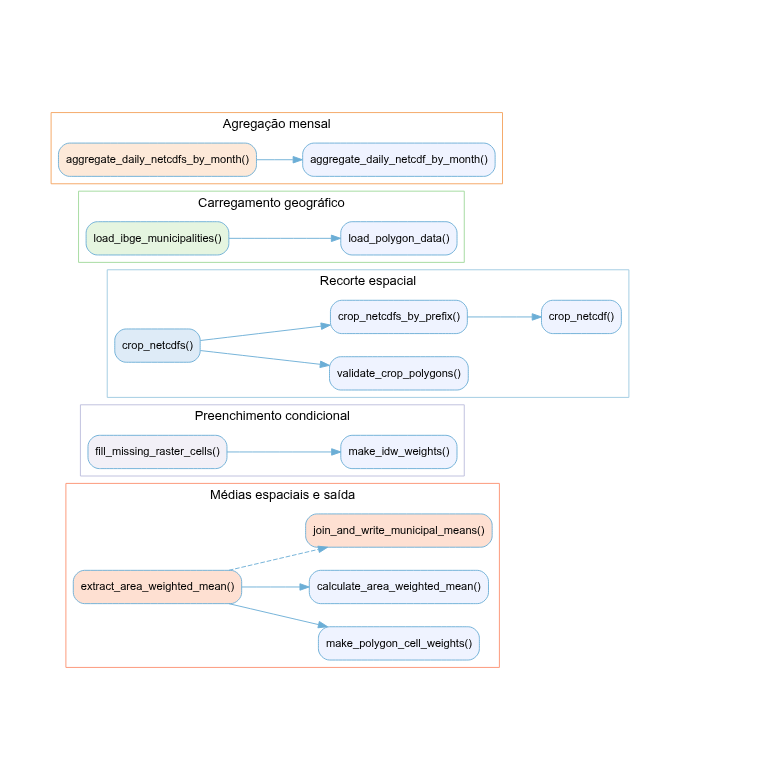
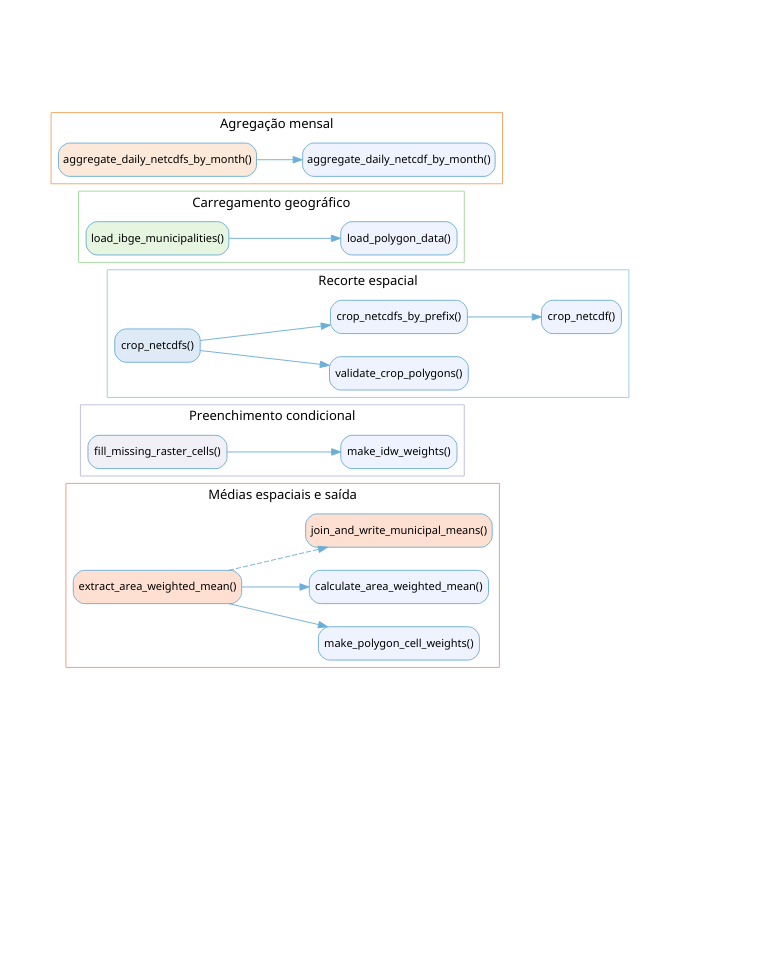
Organize scientific references and render README

diff --git a/README.md b/README.md
@@ -4,7 +4,6 @@
 # extractmeteobr
 
 <!-- badges: start -->
-
 <!-- badges: end -->
 
 O **extractmeteobr** transforma dados meteorológicos gradeados do Brasil
@@ -18,8 +17,7 @@ hidrográficas e glebas.
 
 ## Instalação
 
-O pacote ainda não está no CRAN. Instale a versão **0.1.0**
-com:
+O pacote ainda não está no CRAN. Instale a versão **0.1.0** com:
 
 ``` r
 pak::pak("lhmet/extractmeteobr@v0.1.0")
@@ -35,18 +33,20 @@ os dados usados em desenvolvimento e validação ficam em `inst/ext/`.
 ### Dados geográficos
 
 Os arquivos `BR_Municipios_2022` e `BR_UF_2022` correspondem à edição
-**2022 da Malha Municipal Digital**, produzida pelo Instituto Brasileiro de
-Geografia e Estatística (**IBGE**). A [página oficial dessa edição](https://www.ibge.gov.br/geociencias/organizacao-do-territorio/malhas-territoriais/15774-malhas.html?edicao=36516&t=acesso-ao-produto)
+**2022 da Malha Municipal Digital**, produzida pelo Instituto Brasileiro
+de Geografia e Estatística (**IBGE**). A [página oficial dessa
+edição](https://www.ibge.gov.br/geociencias/organizacao-do-territorio/malhas-territoriais/15774-malhas.html?edicao=36516&t=acesso-ao-produto)
 apresenta o produto e suas características técnicas.
 
-| Arquivos locais | Conteúdo | Download oficial |
-| --- | --- | --- |
+| Arquivos locais                             | Conteúdo                                               | Download oficial                                                                                                                                                     |
+|---------------------------------------------|--------------------------------------------------------|----------------------------------------------------------------------------------------------------------------------------------------------------------------------|
 | `BR_Municipios_2022/BR_Municipios_2022.shp` | Municípios e demais feições da malha municipal de 2022 | [BR_Municipios_2022.zip](https://geoftp.ibge.gov.br/organizacao_do_territorio/malhas_territoriais/malhas_municipais/municipio_2022/Brasil/BR/BR_Municipios_2022.zip) |
-| `BR_UF_2022/BR_UF_2022.shp` | Limites das Unidades da Federação de 2022 | [BR_UF_2022.zip](https://geoftp.ibge.gov.br/organizacao_do_territorio/malhas_territoriais/malhas_municipais/municipio_2022/Brasil/BR/BR_UF_2022.zip) |
+| `BR_UF_2022/BR_UF_2022.shp`                 | Limites das Unidades da Federação de 2022              | [BR_UF_2022.zip](https://geoftp.ibge.gov.br/organizacao_do_territorio/malhas_territoriais/malhas_municipais/municipio_2022/Brasil/BR/BR_UF_2022.zip)                 |
 
-Extraia cada ZIP para a pasta correspondente e mantenha juntos os arquivos
-`.shp`, `.shx`, `.dbf`, `.prj` e `.cpg`. Esses dados são obtidos separadamente:
-não acompanham a instalação do pacote nem são publicados neste repositório.
+Extraia cada ZIP para a pasta correspondente e mantenha juntos os
+arquivos `.shp`, `.shx`, `.dbf`, `.prj` e `.cpg`. Esses dados são
+obtidos separadamente: não acompanham a instalação do pacote nem são
+publicados neste repositório.
 
 A malha municipal do IBGE e os limites estaduais ficam em
 `inst/ext/ibge`:
@@ -74,19 +74,21 @@ fs::dir_tree(here::here("inst/ext/ibge"))
 ### Dados meteorológicos
 
 A fonte é o **Brazilian Daily Weather Gridded Data (BR-DWGD)**, de
-Xavier e colaboradores. Os arquivos usados neste projeto são da versão
-**3.2.4**, com dados diários de **1961 a 2025** em uma grade de **0,1° × 0,1°**.
-Consulte a [página do autor](https://sites.google.com/site/alexandrecandidoxavierufes/brazilian-daily-weather-gridded-data) e os downloads nela indicados:
-[arquivos compactados ZIP](https://drive.google.com/drive/folders/11-qnvwojirAtaQxSE03N0_SUrbcsz44N) ou [arquivos NetCDF](https://www.dropbox.com/scl/fo/t225fii1ir4o5ozga0o3u/ALZsq0F4zeCykN4GgoD8D6s?dl=0&rlkey=93nkonzxn08c4wioztkjq0x52&st=oq6g1i0m).
+Xavier e colaboradores, cuja metodologia é descrita por Xavier et
+al. (2022). Os arquivos usados neste projeto são da versão **3.2.4**,
+com dados diários de **1961 a 2025** em uma grade de **0,1° × 0,1°**.
+Consulte a [página do
+autor](https://sites.google.com/site/alexandrecandidoxavierufes/brazilian-daily-weather-gridded-data)
+e os downloads nela indicados: [arquivos compactados
+ZIP](https://drive.google.com/drive/folders/11-qnvwojirAtaQxSE03N0_SUrbcsz44N)
+ou [arquivos
+NetCDF](https://www.dropbox.com/scl/fo/t225fii1ir4o5ozga0o3u/ALZsq0F4zeCykN4GgoD8D6s?dl=0&rlkey=93nkonzxn08c4wioztkjq0x52&st=oq6g1i0m).
 
-Para o fluxo atual, obtenha precipitação (`pr`) e evapotranspiração de referência
-(`ETo`). Nos ZIPs, essas variáveis estão em `pr_Tmax_Tmin_NetCDF_Files.zip` e
-`ETo_u2_RH_Rs_NetCDF_Files.zip`, respectivamente. Os arquivos mensais usados
-pelo projeto são gerados a partir dos diários com `aggregate_daily_netcdfs_by_month()`.
-
-Citação indicada pelo autor: Xavier, A. C., Scanlon, B. R., King, C. W. e
-Alves, A. I. (2022). *New improved Brazilian daily weather gridded data
-(1961–2020)*. [DOI: 10.1002/joc.7731](https://doi.org/10.1002/joc.7731).
+Para o fluxo atual, obtenha precipitação (`pr`) e evapotranspiração de
+referência (`ETo`). Nos ZIPs, essas variáveis estão em
+`pr_Tmax_Tmin_NetCDF_Files.zip` e `ETo_u2_RH_Rs_NetCDF_Files.zip`,
+respectivamente. Os arquivos mensais usados pelo projeto são gerados a
+partir dos diários com `aggregate_daily_netcdfs_by_month()`.
 
 Os dados diários do BR-DWGD ficam em `inst/ext/br-dwgd`. Os NetCDFs
 mensais usados pelo pipeline ficam no subdiretório `monthly` da
@@ -233,15 +235,15 @@ executá-las separadamente, útil para inspeção ou depuração.
 
 ![](README_files/figure-gfm/pipeline-diagram-1.png)<!-- -->
 
-| Etapa | Arquivo em `R/` | Função principal | Papel no pipeline |
-|----|----|----|----|
-| 0 | `aggregate-monthly.R` | `aggregate_daily_netcdfs_by_month()` | Agrega os NetCDFs diários (`pr`, `ETo`) em `SpatRaster` mensais para todo o Brasil. Pré-processamento único, fora do pipeline regional. |
-| 1 | `geographic-data.R` | `load_ibge_municipalities()` | Carrega os municípios dos estados ou da região solicitada. |
-| 2 | `crop-netcdfs.R` | `crop_netcdfs()` | Recorta os rasters mensais para a extensão desses municípios. |
-| 3 | `fill-missing-raster-cells.R` | `fill_missing_raster_cells()` | Preenche por IDW as células `NA` que interceptam os municípios, somente se necessário. |
-| 4 | `area-weighted-mean.R`, `municipal-output.R` | `extract_area_weighted_mean()`, `join_and_write_municipal_means()` | Calcula as médias ponderadas por área e grava o arquivo `.fst`. |
-| — | `run-pipeline.R` | `run_meteo_pipeline()` | Orquestra as etapas 1 a 4 para um conjunto de estados ou uma região. |
-| — | `interactive-maps.R` | `make_interactive_spatial_map()` | Mapa interativo opcional (requer o pacote `tmap`) para inspecionar polígonos e rasters. |
+| Etapa | Arquivo em `R/`                              | Função principal                                                   | Papel no pipeline                                                                                                                       |
+|-------|----------------------------------------------|--------------------------------------------------------------------|-----------------------------------------------------------------------------------------------------------------------------------------|
+| 0     | `aggregate-monthly.R`                        | `aggregate_daily_netcdfs_by_month()`                               | Agrega os NetCDFs diários (`pr`, `ETo`) em `SpatRaster` mensais para todo o Brasil. Pré-processamento único, fora do pipeline regional. |
+| 1     | `geographic-data.R`                          | `load_ibge_municipalities()`                                       | Carrega os municípios dos estados ou da região solicitada.                                                                              |
+| 2     | `crop-netcdfs.R`                             | `crop_netcdfs()`                                                   | Recorta os rasters mensais para a extensão desses municípios.                                                                           |
+| 3     | `fill-missing-raster-cells.R`                | `fill_missing_raster_cells()`                                      | Preenche por IDW as células `NA` que interceptam os municípios, somente se necessário.                                                  |
+| 4     | `area-weighted-mean.R`, `municipal-output.R` | `extract_area_weighted_mean()`, `join_and_write_municipal_means()` | Calcula as médias ponderadas por área e grava o arquivo `.fst`.                                                                         |
+| —     | `run-pipeline.R`                             | `run_meteo_pipeline()`                                             | Orquestra as etapas 1 a 4 para um conjunto de estados ou uma região.                                                                    |
+| —     | `interactive-maps.R`                         | `make_interactive_spatial_map()`                                   | Mapa interativo opcional (requer o pacote `tmap`) para inspecionar polígonos e rasters.                                                 |
 
 ## Funções principais e auxiliares
 
@@ -316,11 +318,11 @@ polygons <- load_polygon_data(
 ### `load_ibge_municipalities()`
 
 Adapta `load_polygon_data()` à malha municipal do IBGE. Retorna um
-objeto `sf` com `polygon_id`, `municipality`, `state`, `region` e geometria.
-`states` aceita códigos estaduais ou uma região, sempre em letras
-minúsculas. `data_path` é obrigatório (sem valor padrão). A função
-também oferece a regra específica para remoção de Lagoa Mirim e Lagoa
-dos Patos.
+objeto `sf` com `polygon_id`, `municipality`, `state`, `region` e
+geometria. `states` aceita códigos estaduais ou uma região, sempre em
+letras minúsculas. `data_path` é obrigatório (sem valor padrão). A
+função também oferece a regra específica para remoção de Lagoa Mirim e
+Lagoa dos Patos.
 
 ``` r
 reference_crs <- fs::dir_ls(
@@ -389,7 +391,9 @@ contrário, aplica interpolação focal IDW a todos os rasters. Somente
 células originalmente ausentes são modificadas. Para distância $d_i$, o
 peso é
 
-$$w_i = \frac{1}{d_i^p}.$$
+$$
+w_i = \frac{1}{d_i^p}.
+$$
 
 `power` define $p$, com padrão 2. `window_size` define a janela
 quadrada, com padrão 5, e deve ser ímpar e igual ou superior a 3. A
@@ -415,9 +419,11 @@ A função retorna um tibble amplo com `polygon_id`, `date` e uma coluna
 por variável. Para o valor $x_{i,t}$ da célula $i$ na data $t$, a média
 do polígono $j$ é
 
-$$\bar{x}_{j,t} =
+$$
+\bar{x}_{j,t} =
 \frac{\sum_i I_{i,t} x_{i,t} f_{i,j} A_i}
-     {\sum_i I_{i,t} f_{i,j} A_i},$$
+     {\sum_i I_{i,t} f_{i,j} A_i},
+$$
 
 em que $(f_{i,j}$ é a fração da célula no polígono, $A_i$ é a área
 física da célula e $I_{i,t}$ vale 1 para dados disponíveis e 0 para
@@ -427,19 +433,21 @@ numerador e denominador.
 ## Saída municipal: `join_and_write_municipal_means()`
 
 Antes da junção, os identificadores dos polígonos devem ser únicos, não
-ausentes e não vazios. Cada `polygon_id` das médias deve existir nos polígonos;
-o mesmo identificador pode ocorrer em várias datas.
+ausentes e não vazios. Cada `polygon_id` das médias deve existir nos
+polígonos; o mesmo identificador pode ocorrer em várias datas.
 
-Associa os atributos selecionados de `polygons` às médias e grava o tibble
-em `.fst`. `attribute_cols` indica as colunas a manter; `NULL` mantém todos
-os atributos, e o identificador é sempre incluído. A geometria não é juntada.
-O carregamento municipal inclui `municipality`, `state` e `region`.
+Associa os atributos selecionados de `polygons` às médias e grava o
+tibble em `.fst`. `attribute_cols` indica as colunas a manter; `NULL`
+mantém todos os atributos, e o identificador é sempre incluído. A
+geometria não é juntada. O carregamento municipal inclui `municipality`,
+`state` e `region`.
 
-O sufixo do arquivo é obtido de `polygons`: usa a região quando todos os seus
-estados estão presentes, ou os códigos estaduais ordenados para recortes
-parciais. Sem `state`, usa apenas `file_stem`. Essas colunas podem ser usadas
-no nome do arquivo mesmo que não sejam selecionadas em `attribute_cols`.
-`output_dir` é obrigatório e criado quando ainda não existe.
+O sufixo do arquivo é obtido de `polygons`: usa a região quando todos os
+seus estados estão presentes, ou os códigos estaduais ordenados para
+recortes parciais. Sem `state`, usa apenas `file_stem`. Essas colunas
+podem ser usadas no nome do arquivo mesmo que não sejam selecionadas em
+`attribute_cols`. `output_dir` é obrigatório e criado quando ainda não
+existe.
 
 ``` r
 municipal_monthly_means <- join_and_write_municipal_means(
@@ -453,11 +461,11 @@ municipal_monthly_means <- join_and_write_municipal_means(
 ## Visualização: `make_interactive_spatial_map()`
 
 Cria um mapa `tmap` com os polígonos e um ponto clicável por feição.
-Pode incluir um raster com rótulo, unidade e data. Requer `tmap` 4.0 ou posterior.
-A função retorna o
-mapa sem imprimi-lo e não participa do pipeline principal. `popup_vars`
-define os campos exibidos e `popup_title` define o título do popup e o
-texto mostrado ao passar o cursor.
+Pode incluir um raster com rótulo, unidade e data. Requer `tmap` 4.0 ou
+posterior. A função retorna o mapa sem imprimi-lo e não participa do
+pipeline principal. `popup_vars` define os campos exibidos e
+`popup_title` define o título do popup e o texto mostrado ao passar o
+cursor.
 
 # Validação dos cálculos espaciais
 
@@ -497,13 +505,17 @@ contribuições de cada célula.
 Para cada célula $i$ interceptada pelo município, o peso é calculado
 explicitamente, de forma independente da função em avaliação, como
 
-$$w_i = f_i A_i,$$
+$$
+w_i = f_i A_i,
+$$
 
 em que $f_i$ é a fração da célula contida no município e $A_i$ é sua
 área física. A média de referência é:
 
-$$\bar{x} = \frac{\sum_{i \in V} x_i f_i A_i}
-     {\sum_{i \in V} f_i A_i},$$
+$$
+\bar{x} = \frac{\sum_{i \in V} x_i f_i A_i}
+     {\sum_{i \in V} f_i A_i},
+$$
 
 sendo $V$ o conjunto de células com valores válidos. O resultado
 explícito é comparado com:
@@ -548,9 +560,11 @@ source(here::here("inst/validation/run-regional-consistency.R"))
 duplicadas, registros exclusivos, diferenças na posição de `NA` e
 diferenças numéricas em `pr` e `ETo`. A diferença escalonada é
 
-$$d = \frac{|x_{\mathrm{regional}} - x_{\mathrm{estadual}}|}
+$$
+d = \frac{|x_{\mathrm{regional}} - x_{\mathrm{estadual}}|}
 {\max\left(|x_{\mathrm{regional}}|,
-           |x_{\mathrm{estadual}}|, 1\right)}.$$
+           |x_{\mathrm{estadual}}|, 1\right)}.
+$$
 
 Os valores são equivalentes quando $d \leq 10^{-12}$. Chaves ausentes,
 duplicações ou diferenças na posição de `NA` reprovam a validação. O
@@ -575,3 +589,10 @@ automaticamente por `devtools::test()`. As validações com dados reais
 ficam em `inst/validation/` e não integram a suíte automática porque
 dependem de arquivos externos do BR-DWGD e do IBGE, ou de resultados
 previamente processados pelo pipeline.
+
+# Referências
+
+XAVIER, A. C.; SCANLON, B. R.; KING, C. W.; ALVES, A. I. New improved
+Brazilian daily weather gridded data (1961–2020). **International
+Journal of Climatology**, v. 42, n. 16, p. 8390–8404, 2022. DOI:
+10.1002/joc.7731.
